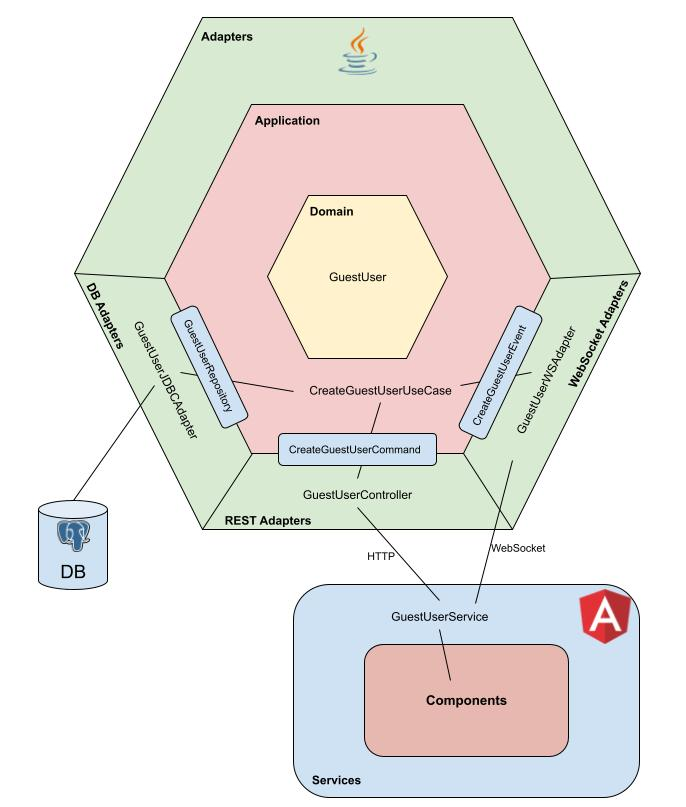
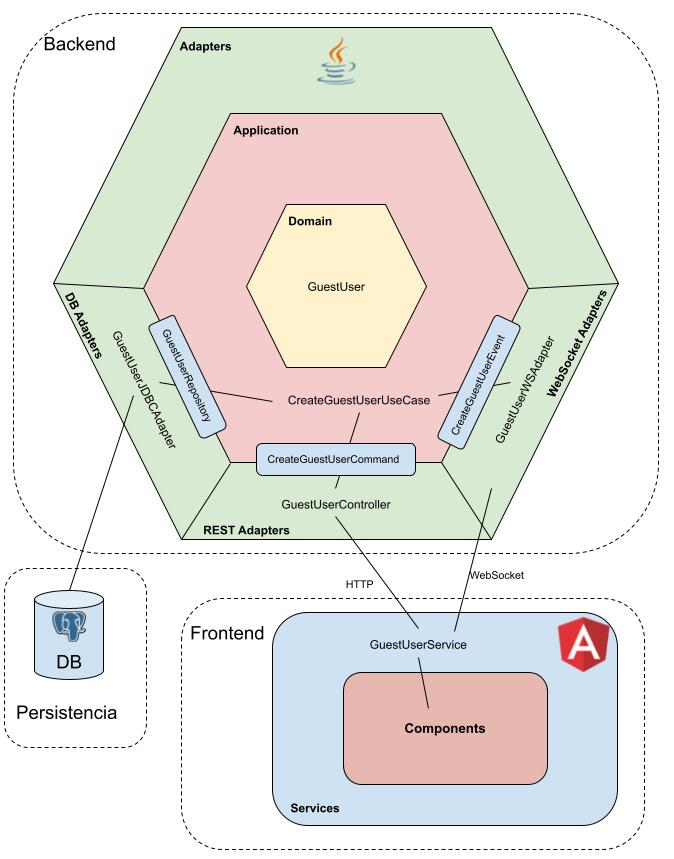
arch diagram and readme

diff --git a/README.md b/README.md
@@ -1,5 +1,8 @@
 # Home Planning Poker
 
+Repositorio frontend:
+https://github.com/FrutosGaston/home-poker-planning-ui
+
 Esta basado en el principio de Clean Architecture.
 
 ![alt text](docs/clean.png)
